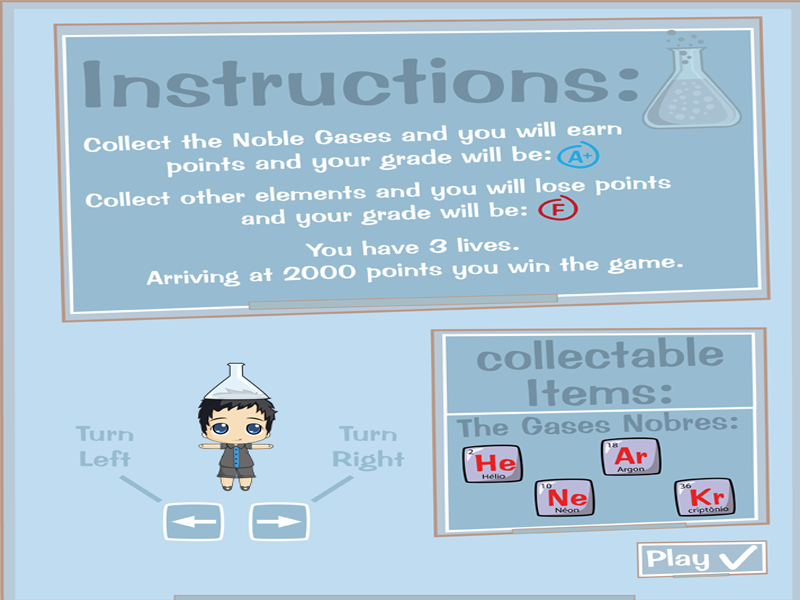
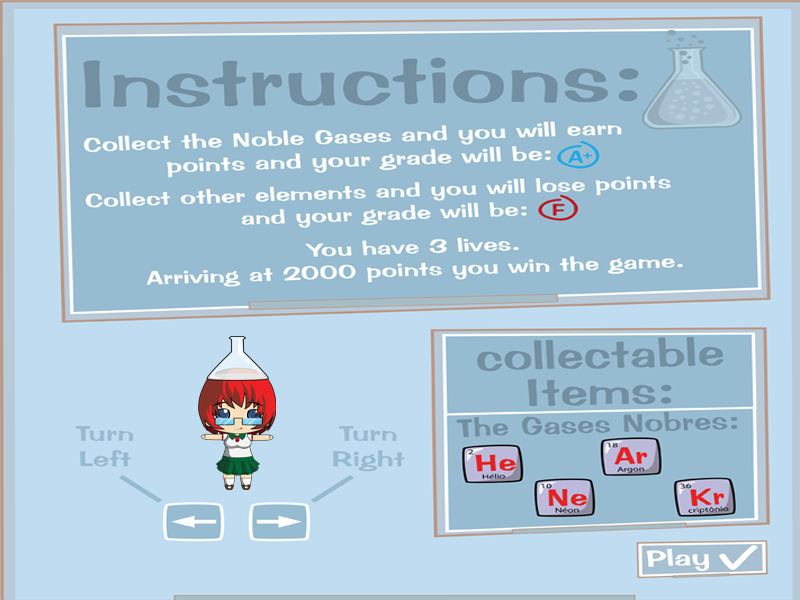
nova personagem do catch e som do click

Changed region(s): [[0.25, 0.54, 0.3438, 0.84]]

diff --git a/gameportal_v03.1/js/game3/game_3_scene_level_1.js b/gameportal_v03.1/js/game3/game_3_scene_level_1.js
@@ -8,7 +8,7 @@ function Game3SceneLevel1()
 
 	//----------- efeito sonoro 1----------
 	this.song_fx = new Audio();
-	this.song_fx.src = "sounds/game3/item comum133280__fins__game-pick-up-object.wav";
+	this.song_fx.src = "sounds/game3/item comum.mp3";
 	this.song_fx.load();
 	this.song_fx.loop = false;
 	this.song_fx.volume = 0.6;
@@ -81,8 +81,9 @@ function Game3SceneLevel1()
 				}			
 			
 			// game over
-			if (this.player1.life == 3)
-			{
+			if (this.player1.life <= 0)
+			{		
+				//this.player1.life = 3;
 				//this.currentGameScene = this.GAMESCENE.INTRO; 
 			}
 			
@@ -108,7 +109,7 @@ function Game3SceneLevel1()
 			// desenha os posntos, vida e etc...
 			screen.font="27px Comic Sans";
 			screen.fillStyle="#E6F4E9";
-			screen.fillText("lives: " + this.player1.life,20,28);
+			screen.fillText("Lives: " + this.player1.life,20,28);
 			screen.fillText("Pegue os: gases nobres",291,28);
 			screen.fillText("Points: "+ this.player1.points,639,28);
 			

diff --git a/gameportal_v03.1/js/scene_credit.js b/gameportal_v03.1/js/scene_credit.js
@@ -37,6 +37,8 @@ function SceneCredit()
    	{
    		if(this.button_back.clicked(mouse))
     	{
+			//som de click
+			click_btn.play();
     		currentScene = SCENE.MENU;
     	}
    	};
